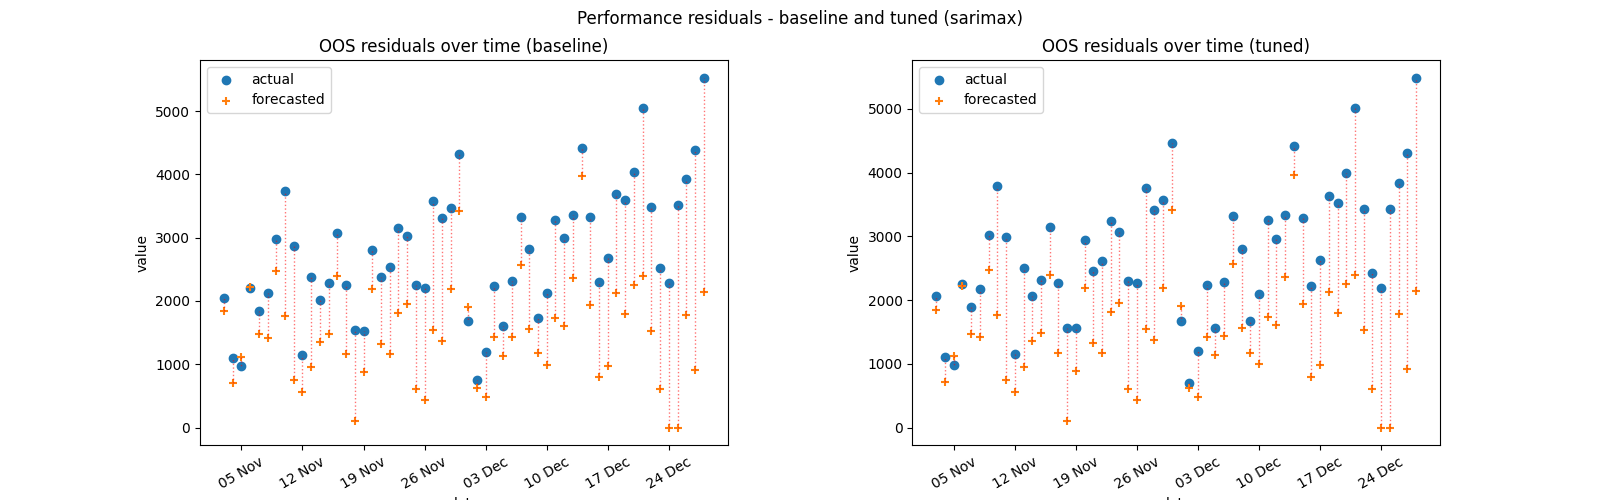
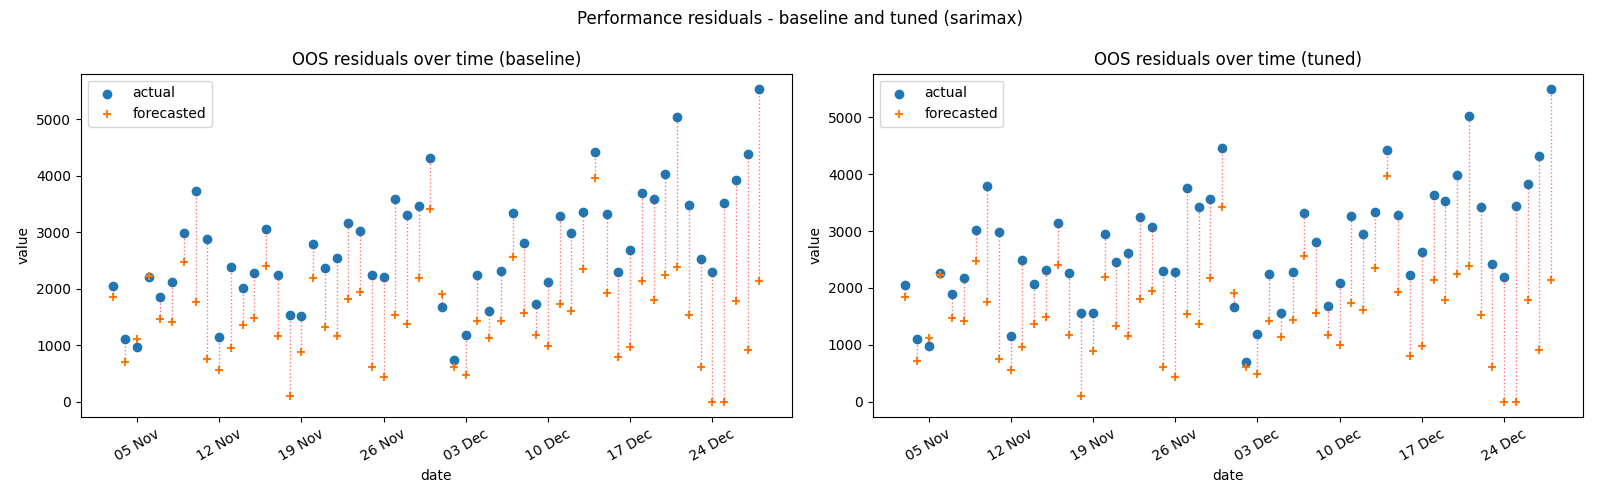
feat: code cleanup

diff --git a/scripts/run_experiments.py b/scripts/run_experiments.py
@@ -1,10 +1,11 @@
 from src.dataset.load_save import load_csv, load_metrics
-from src.analysis.feature_analysis import ablation_plots, uplifts
-from results.save_results import save_results
+from src.analysis.feature_analysis import ablation_plots, uplifts, permutation_values
 from src.analysis.impute_analysis import impute_analysis_plots
 from src.analysis.tuning_analysis import delta_plots, tuning_residuals
-from src.models.tuning import read_configuration, feature_cols
+from src.models.tuning import read_configuration
 from src.models.testing import backtest
+from src.models.training import time_split, make_estimator, feature_cols
+from results.save_results import save_results
 '''
 Module for feature analysis, data preprocessing analysis, and tuning analysis
 Produces figures and metrics regarding featrure importance, missing value imputation impact, and tuning impact
@@ -16,12 +17,6 @@ def run(impute_analysis_path="data/sales_globally_imputed.csv", data_path="data/
     df = load_csv(data_path)
     features = feature_cols(df)
 
-    FEATURE_GROUPS = { # feature groups for ablation experiments
-    "calendar": [c for c in features if not c.startswith(("dow_", "month_"))],
-    "events": [c for c in features if not c.startswith(("internal_events_", "internal_event_", "external_events_", "external_event_"))],
-    "holidays": [c for c in features if not c.startswith(("holidays_", "holidays_"))],
-    "weather": [c for c in features if not c.startswith(("precipitation_", "temperature_", "wind_"))],
-    }
 
     # oos predictions + metrics for impute analysis
     impute_oos_list = []
@@ -31,8 +26,24 @@ def run(impute_analysis_path="data/sales_globally_imputed.csv", data_path="data/
     metrics_baselines = []
     metrics_tuned = []
 
-    # metrics for feature analysis
-    metrics_ablations = {group_name: [] for group_name in FEATURE_GROUPS}
+    # metrics and feature groups for feature analysis
+    ABLATION_FEATURE_GROUPS = { # feature groups for ablation experiments
+    "lags": [c for c in features if c.startswith("sales_lag_")],
+    "rolls": [c for c in features if c.startswith("sales_roll")],
+    "calendar": [c for c in features if c.startswith(("dow_", "month_"))],
+    "events": [c for c in features if c.startswith(("internal_events_", "internal_event_", "external_events_", "external_event_"))],
+    "holidays": [c for c in features if c.startswith(("holidays_", "holidays_"))],
+    "weather": [c for c in features if c.startswith(("precipitation_", "temperature_", "wind_"))],
+    }
+
+    # PERMUTATION_FEATURE_GROUPS = { # feature groups for PFI experiments
+    # "calendar": [c for c in features if not c.startswith(("dow_", "month_"))],
+    # "events": [c for c in features if not c.startswith(("internal_events_", "internal_event_", "external_events_", "external_event_"))],
+    # "holidays": [c for c in features if not c.startswith(("holidays_", "holidays_"))],
+    # "weather": [c for c in features if not c.startswith(("precipitation_", "temperature_", "wind_"))],
+    # }
+
+    metrics_ablations = {group_name: [] for group_name in ABLATION_FEATURE_GROUPS}
 
 
     # re-train, tune, and evaluate models for each experiment
@@ -54,10 +65,20 @@ def run(impute_analysis_path="data/sales_globally_imputed.csv", data_path="data/
         oos_tune = load_csv(f"results/{model}_predictions_tuned.csv")
         tuning_residuals(oos_baseline, oos_tune, model, "tuning_analysis_figures")
 
-        # ablation tests (feature analysis)
-        for group_name, feature_group in FEATURE_GROUPS.items():
+        # feature analysis
+        # grouped ablation experiments
+        for group_name, feature_group in ABLATION_FEATURE_GROUPS.items():
             _, ablation_metrics = backtest(df, model, feature_group, params, target)
             metrics_ablations[group_name].append(ablation_metrics)
+
+        # grouped PFI experiments
+        train, test = time_split(df)
+        X_test, y_test = test[features], test[target]
+        if model == "lasso" or model == "xgboost":
+            permutation_table = permutation_values(model, X_test, y_test)
+            save_results(permutation_table, "permutation_values")
+        else:
+            pass
             
 
 

diff --git a/src/models/training.py b/src/models/training.py
@@ -13,6 +13,8 @@ from src.models.metrics import calculate_metrics
 Orchestrates ml model training, tuning, testing, and saving using preprocessed data
 '''
 
+EXCLUDE = {"date","sales","internal_events","external_events","holiday"}
+
 def time_split(df: pd.DataFrame, days: int = 56) -> tuple[pd.DataFrame, pd.DataFrame]:
     '''
     Create a single holdout using time-aware split
@@ -25,6 +27,13 @@ def time_split(df: pd.DataFrame, days: int = 56) -> tuple[pd.DataFrame, pd.DataF
     train = df.iloc[:-days].reset_index(drop=True)
     test = df.iloc[-days:].reset_index(drop=True)
     return train, test
+
+
+def feature_cols(df: pd.DataFrame) -> list[str]:
+     '''
+     Chooses appropriate model input features
+     '''
+     return [c for c in df.columns if (c not in EXCLUDE)]
 
 
 def make_estimator(X_train: pd.DataFrame, 
@@ -90,7 +99,8 @@ def fit_sarimax_model(model: Any) -> tuple[Any, dict[str, Any]]:
     return best_results, best_diagnostics
 
 
-def train_model(train: pd.DataFrame, 
+
+def train_predict(train: pd.DataFrame, 
                 test: pd.DataFrame, 
                 kind: str, 
                 features: list[str], 
@@ -107,7 +117,6 @@ def train_model(train: pd.DataFrame,
     model = make_estimator(X_train, y_train, kind, params)
 
     if kind == "sarimax":
-        # results = model.fit()  # data is passed when model is constructed
         results, diagnostics = fit_sarimax_model(model)  # data is passed when model is constructed
         print(diagnostics)
         drop_cols = [c for c in X_test.columns if c.startswith("sales_lag") or c.startswith("sales_roll")]

diff --git a/src/analysis/feature_analysis.py b/src/analysis/feature_analysis.py
@@ -1,6 +1,7 @@
 import pandas as pd
 import matplotlib.pyplot as plt
 from figures.save_figure import save_figure
+from sklearn.inspection import permutation_importance
 '''
 Explores uplift and feature importance metrics over different periods for different metrics
 '''
@@ -37,9 +38,24 @@ def ablation_plots(metrics_tuned: list[pd.DataFrame],
     fig.tight_layout()
     save_figure(fig, f"{group_name}_delta_plot", folder)
 
-def permutation_importance():
-    pass
+def permutation_values(model: str,
+                        X_test: pd.DataFrame,
+                        y_test: pd.Series) -> pd.DataFrame:
+    '''
+    Calculates permutation feature importance values for all features
+    '''
+    r = permutation_importance(model, X_test, y_test, scoring="neg_mean_absolute_error", n_repeats=20, random_state=42, n_jobs=-1)
 
+    mae_increase_mean = -r.importances_mean
+    mae_increase_std = r.importances_std
+
+    out = pd.DataFrame({
+        "feature": X_test.columns,
+        "mae_increase_mean": mae_increase_mean,
+        "mae_increase_std": mae_increase_std,
+    }).sort_values("mae_increase_mean", ascending=False).reset_index(drop=True)
+
+    return out
 
 def uplifts(df: pd.DataFrame, 
             factor: str, 

diff --git a/src/models/tuning.py b/src/models/tuning.py
@@ -1,7 +1,7 @@
 from sklearn.model_selection import ParameterGrid
 from pathlib import Path
 from typing import Iterator, Mapping, Any
-from sklearn.metrics import mean_absolute_error
+from src.models.metrics import mae
 from src.models.training import make_estimator, fit_sarimax_model
 import numpy as np, pandas as pd
 import json
@@ -9,24 +9,6 @@ import json
 '''
 Defines rolling origin protocol and cross-validation implementation
 '''
-
-EXCLUDE = {"date","sales","internal_events","external_events","holiday"}
-
-def feature_cols(df: pd.DataFrame) -> list[str]:
-     '''
-     Chooses appropriate model input features
-     '''
-     return [c for c in df.columns if (c not in EXCLUDE)]
-
-
-def mae(y_test: pd.Series, 
-        y_pred: np.ndarray) -> float:
-     '''
-     Fold-wise MAE calculation for cross-validation
-     '''
-     return float(mean_absolute_error(y_test, y_pred))
-
-
 
 def rolling_splits(d: pd.Series, 
                    horizon_days: int, 

diff --git a/src/models/testing.py b/src/models/testing.py
@@ -1,6 +1,6 @@
 import numpy as np, pandas as pd
 from typing import Mapping, Any
-from src.models.training import train_model
+from src.models.training import train_predict
 from src.models.tuning import rolling_splits
 
 def backtest(df: pd.DataFrame, 
@@ -21,7 +21,7 @@ def backtest(df: pd.DataFrame,
 
     for train_mask, test_mask in rolling_splits(dates, horizon_days, min_training_days): # rolling out-of-sample windows
         train, test = df.loc[train_mask], df.loc[test_mask]
-        oos, metrics = train_model(train, test, kind, features, target, params)
+        oos, metrics = train_predict(train, test, kind, features, target, params)
         oos["model"] = kind
         oos["window"] = window
         metrics["model"] = kind

diff --git a/scripts/run_modelling.py b/scripts/run_modelling.py
@@ -1,9 +1,9 @@
-from src.models.tuning import grid_search, feature_cols, save_configuration
+from src.models.tuning import grid_search, save_configuration
 from src.models.metrics import save_metrics, save_oos
 from src.models.testing import backtest
 from src.dataset.load_save import load_csv
 from src.models.registry import save_manifest
-from src.models.training import time_split
+from src.models.training import time_split, feature_cols
 
 '''
 Module for model tuning, testing, and training functions

diff --git a/src/models/metrics.py b/src/models/metrics.py
@@ -20,6 +20,13 @@ def calculate_metrics(y_test: pd.Series,
 
     return {"MAE": mae, "MASE": mase, "RMSE": rmse}
 
+def mae(y_test: pd.Series, 
+        y_pred: np.ndarray) -> float:
+     '''
+     Fold-wise MAE calculation for cross-validation
+     '''
+     return float(mean_absolute_error(y_test, y_pred))
+
 
 def save_oos(oos: pd.DataFrame, name: str) -> str:
     '''

diff --git a/src/analysis/performance_analysis.py b/src/analysis/performance_analysis.py
@@ -43,7 +43,7 @@ def performance_residuals(oos_baseline: pd.DataFrame,
     fig.subplots_adjust(wspace=0.35)
     daily_labels(ax[0])
     daily_labels(ax[1])
-    #fig.tight_layout(pad=1.2)
+    fig.tight_layout(pad=1.2)
     save_figure(fig, f"residual_{model}", folder)
 
 def forecast_plot(oos_list: list[pd.DataFrame], 

diff --git a/scripts/run_comparison.py b/scripts/run_comparison.py
@@ -6,7 +6,6 @@ Module for orchestration of model comparisons and residuals
 '''
 
 def run(data_path="data/sales_daily_processed.csv", target="sales"):
-    df = load_csv(data_path)
     plot_all()
 
 if __name__ == "__main__":
